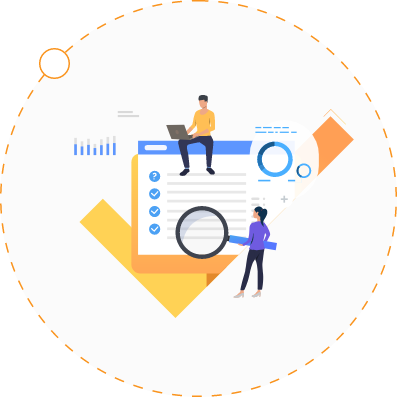
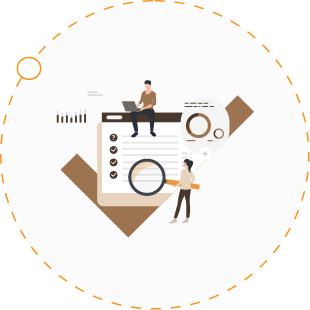
introduce 1124

diff --git a/src/Components/ProgressIcons.js b/src/Components/ProgressIcons.js
@@ -3,6 +3,9 @@ import '../css/ProgressIcons.css';
 import ProgressIconBox from "../Components/ProgressIconBox";
 import Progress1 from '../image/progress1.png'
 import Progress2 from '../image/progress2.png'
+import Progress3 from '../image/progress3.png'
+import Progress4 from '../image/progress4.png'
+import Progress5 from '../image/progress5.png'
 
 function ProgressIcons() {
   return (
@@ -10,12 +13,12 @@ function ProgressIcons() {
           <div className="progress-container1">
               <ProgressIconBox img={Progress1} title="드림캘린더 신청" description="신청양식에 맞춘 무료신청 OR 유료신청"></ProgressIconBox>
               <ProgressIconBox img={Progress2} title="라이프 현황 조사" description="재무현황·인생목표·라이프스타일 작성"></ProgressIconBox>
-              <ProgressIconBox img={Progress2} title="보고서 작성" description="최신화된 통계치 대차대조,전문가 제언 및 분석"></ProgressIconBox>
+              <ProgressIconBox img={Progress3} title="보고서 작성" description="최신화된 통계치 대차대조,전문가 제언 및 분석"></ProgressIconBox>
 
           </div>
           <div className="progress-container2">
-          <ProgressIconBox img={Progress2} title="드림캘린더 완성" description="수령방법 선택"></ProgressIconBox>
-          <ProgressIconBox img={Progress2} title="액션플랜 수행" description="서포터즈 면담 신청"></ProgressIconBox>
+          <ProgressIconBox img={Progress4} title="드림캘린더 완성" description="수령방법 선택"></ProgressIconBox>
+          <ProgressIconBox img={Progress5} title="액션플랜 수행" description="서포터즈 면담 신청"></ProgressIconBox>
           </div>
       </div>
   );

diff --git a/src/Layout/Main-introduce.js b/src/Layout/Main-introduce.js
@@ -1,17 +1,28 @@
 import React from 'react';
 import '../css/Main-introduce.css';
+import verticalLine from '../image/vertical-line.png'
 //import IconBar from '../Components/IconBar' <IconBar></IconBar>
 
 function MainIntroduce(){
     return(
         <div className="introduce-container">                   
-            <h1 className="introduce-title">당신의 꿈이 현실이 되도록</h1>
+            <h1 className="introduce-title">드림캘린더는 질문합니다</h1>
             <p className="introduce-description">
-            당신에게 던지는 150개의 질문과 현재 Trend가 당신에게 맞게끔 최적화된 알고리즘을 타고 11명의 전문가가<br/>
-            꼼꼼하게 검토하여 당신만을 위한 꿈 이룸 달력을 선물합니다.
+                드림캘린더는 당신에게 150가지의 질문을 던집니다.<br/>
+                그리고 당신은 고민하고 그 질문에 성실하게 답변을 작성합니다.<br/>
+                물론, 어느정도 준비도 필요하겠죠?
             </p>
+            <p className="introduce-description">
+                모르는 것이 있다면?<br/>
+                자세한 해석과 설명을 해준 전문 플래너가 당신을 조력합니다.<br/>
+                이 과정이 지나면 당신은 당신의 꿈이 어떻게 이루어지게 될지,<br/>
+                또 그 안에 어떤 위험이 도사리고 있는지<br/>
+                하나의 비스포크 캘린더로 당신의 손에 쥐어지게 됩니다.
+            </p>
+            <img className="vertical-line" src={verticalLine} alt=""/>
         </div>
     );
 }
 
 export default MainIntroduce;
+

diff --git a/src/css/Main-introduce.css b/src/css/Main-introduce.css
@@ -2,23 +2,26 @@
     font-family: "notosans" !important;
     height: 100vh;
     padding : 10vh 10vw;
-    background-image: linear-gradient( rgba(0, 0, 0, 0.5), rgba(0, 0, 0, 0.5) ),url("../image/bgimg.png");
+    background-image: linear-gradient( rgba(255, 255, 255, 0.1), rgba(255, 255, 255, 0.1) ),url("../image/bgimg.png");
     background-size: cover;
+    text-align: center;
 }
 
 .introduce-title{
-    color: white;
-    padding-top: 14rem;
-    font-size: 3.5rem;
+    color: #ECD4BC;
+    font-size: 3.3rem;
 }
 
 .introduce-description{
     margin-top: 3.5rem;
     color: white;
-    font-size: 1.2rem;
+    font-size:  1.5rem;
     line-height: 3rem;
 }
 
+.vertical-line{
+    margin-top: 4rem;
+}
 
 @media screen and (max-width: 1024px){
     .introduce-container{
